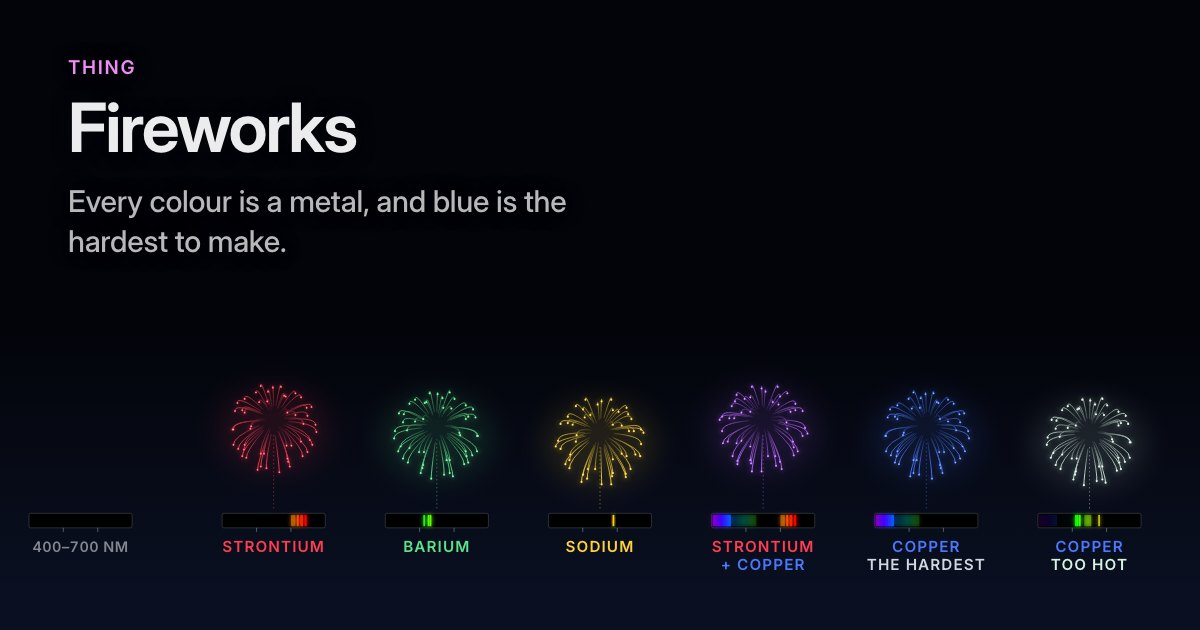
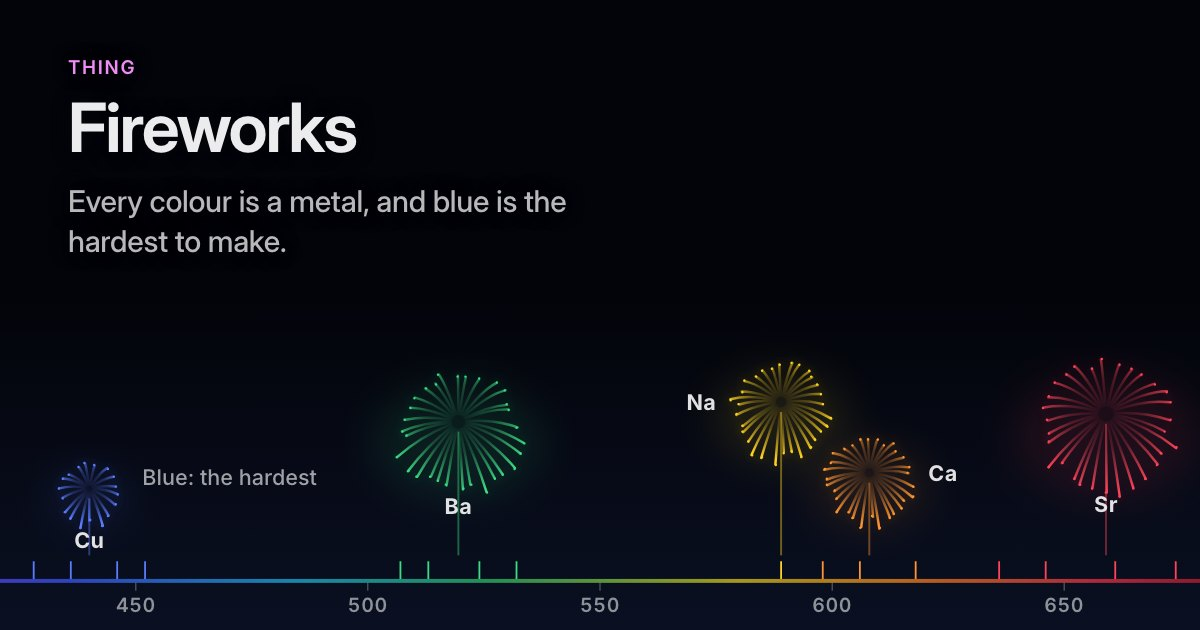
Fireworks held back: the live card stays until a redesign passes Will's look

diff --git a/lib/front.js b/lib/front.js
@@ -379,98 +379,56 @@ function squid() {
   return svg(W, H, 'A giant squid’s eye, 27 cm across, in its chromatophore-flecked skin, too big to fit on the card, beside a human eye, 2.4 cm across, at the same scale', b, 'sq', 'xMidYMid slice');
 }
 
-/* Fireworks: every colour is a metal. Six shells, alike in everything but the salt in their stars, burst side by
-   side: strontium, barium, sodium, strontium with copper, copper, and copper again, burned too hot. Under each
-   is its light as a spectroscope spreads it, 400 to 700 nm, each band where Wikipedia's table of emitters puts it
-   (strontium's chloride and hydroxide, barium chloride, sodium's D lines, copper chloride), each in
-   its own wavelength's colour, so purple shows as red and blue at once: no one wavelength is purple. Copper's blue
-   comes from copper chloride, which comes apart in a star that burns too hot, so the last shell has lost its blue (its
-   bands a ghost) and copper's own green lines show (510.6, 515.3, 521.8 and 578.2 nm, NIST), with its hydroxide's
-   green: that is why blue is the hardest. A shell is computed: its stars flung evenly over a sphere (a Fibonacci
-   lattice) and seen from the side, each slowed by the air and pulled down as it flies, its trail brightest at its head;
-   two such shells are drawn once and stamped, turned about. On its turn each climbs and breaks in turn, its light
-   reaching the spectroscope after it, and the last goes off blue and burns pale. Pointing names each. */
-/** a line's colour by its wavelength (after Bruton's approximation, its orange narrowed toward the red, where the eye
-    puts it) @param {number} nm */
-const nmHex = nm => {
-  const c = nm < 440 ? [(440 - nm) / 60, 0, 1] : nm < 490 ? [0, (nm - 440) / 50, 1] : nm < 510 ? [0, 1, (510 - nm) / 20] : nm < 580 ? [(nm - 510) / 70, 1, 0] : nm < 645 ? [1, ((645 - nm) / 65) ** 1.6, 0] : [1, 0, 0];
-  const k = nm < 420 ? .3 + .7 * (nm - 380) / 40 : 1;
-  return `#${c.map(x => Math.round(255 * (x * k) ** .8).toString(16).padStart(2, '0')).join('')}`;
-};
-/** a chrysanthemum of radius R about (0, 0): n stars over a Fibonacci sphere, those flung at you or away hidden in its
-    flash; each star's reach grows as 1 − e^(−3t) (the air slows it) and it sags R/5 by the end (gravity); its trail is a
-    curve through three moments of its flight @param {number} R @param {number} n @param {number} seed */
-function chrys(R, n, seed) {
-  const r = rng(seed), ga = Math.PI * (3 - Math.sqrt(5)), reach = (/** @type {number} */ t) => (1 - Math.exp(-3 * t)) / (1 - Math.exp(-3));
-  let d = ''; /** @type {number[][]} */ const heads = []; const o = (/** @type {number} */ x) => Math.round(x);
-  for (let i = 0; i < n; i++) {
-    const z = 1 - 2 * (i + .5) / n; if (Math.abs(z) > .9) continue;
-    const s = Math.sqrt(1 - z * z) * R * (1 + (r() - .5) * .1), a = i * ga + (r() - .5) * .3;
-    const at = (/** @type {number} */ t) => [Math.cos(a) * s * reach(t), Math.sin(a) * s * reach(t) + R * .2 * t * t];
-    const [x0, y0] = at(.14), [x1, y1] = at(.55), [x2, y2] = at(1);
-    d += `M${o(x0)} ${o(y0)}Q${o(2 * x1 - (x0 + x2) / 2)} ${o(2 * y1 - (y0 + y2) / 2)} ${o(x2)} ${o(y2)}`; heads.push([x2, y2]);
-  }
-  return { d, heads };
-}
-/* each salt's bands, [from, to, strength] in nm */
-const SR = [[600, 613, .55], [617, 623, 1], [627, 635, 1], [640, 646, 1]], CU = [[403, 456, 1], [460, 530, .16]];
-const FW = /** @type {[string, string[], string, number[][], string][]} */ ([
-  /* id, its name (a second line, or a line in another metal's colour, after a |), its colour, its bands, its reading */
-  ['sr', ['STRONTIUM'], '#FF3D52', SR, 'Strontium: red, from its salts’ bands at 600–646 nm'],
-  ['ba', ['BARIUM'], '#5CE38A', [[511, 515, 1], [524, 528, 1], [530, 533, 1]], 'Barium: green, from barium chloride’s bands at 511–533 nm'],
-  ['na', ['SODIUM'], '#FFD23A', [[589, 589.6, 1]], 'Sodium: yellow, from one bright pair of lines at 589 nm'],
-  ['pu', ['STRONTIUM|#FF3D52', '+ COPPER|#4C78FF'], '#B864FF', [...SR, ...CU], 'Strontium and copper: red and blue at once. No one wavelength is purple'],
-  ['cu', ['COPPER', 'THE HARDEST|#D3D7DF'], '#4C78FF', CU, 'Copper: blue, from copper chloride at 403–456 nm, if the star burns cool'],
-  ['hot', ['COPPER|#4C78FF', 'TOO HOT'], '#D6F2E1', [[510.6, 510.6, 1], [515.3, 515.3, 1], [521.8, 521.8, 1], [535, 555, .45], [578.2, 578.2, .7]], 'Copper burned too hot: its chloride comes apart, the blue goes, its green shows'],
+/* Fireworks: a night sky over a spectrum. Each metal's burst goes up from where its light falls on a ruler of
+   wavelengths, 400 to 700 nm, and its lines mark the ruler like a fingerprint: copper blue, barium green, sodium
+   yellow, calcium orange, strontium red. Copper's is the smallest: blue is the hardest. On first sight they go
+   off in turn; pointing at one names it. */
+const METALS = /** @type {[string, string, string, string, number[]][]} */ ([
+  ['Cu', 'Copper', 'blue', '#5B7CFF', [428, 436, 446, 452]], ['Ba', 'Barium', 'green', '#3DDC84', [507, 513, 524, 532]],
+  ['Na', 'Sodium', 'yellow', '#FFD21F', [589]], ['Ca', 'Calcium', 'orange', '#FF9433', [598, 606, 618]], ['Sr', 'Strontium', 'red', '#FF4459', [636, 646, 661, 674, 682]],
 ]);
 /** @param {number} W @param {number} H @param {'w' | 'n'} v */
-function fireworksPlate(W, H, v) {
-  const wide = v === 'w', R = wide ? 27 : 22, P = wide ? (W - 36) / (FW.length + 1) : 80, sw = wide ? 64 : 60, sh = wide ? 9 : 8;
-  /* a row of cells, the first the title's and the spectroscope's scale, then one for each shell. On a phone, a grid of
-     four by two: the title keeps the top left, the scale sits under it in the bottom left, in line with the lower
-     row's spectra, and the shells fill three columns, three to a row */
-  const cell = (/** @type {number} */ j) => wide ? [18 + P * (j + .5), 0] : j === 0 ? [20 + P * .5, 120] : [20 + P * (1 + (j - 1) % 3 + .5), j <= 3 ? 0 : 120];
-  const Y = wide ? { b: 60, s: 114, n: 138 } : { b: 46, s: 82, n: 103 };
-  let defs = `<linearGradient id="fw-sky-${v}" gradientUnits="userSpaceOnUse" x1="0" y1="0" x2="0" y2="${H}"><stop offset="0" stop-color="#03040A"/><stop offset="1" stop-color="#0A1022"/></linearGradient>`;
-  /* a shell is drawn at twice its size and stamped at half, so whole numbers place its stars to half a pixel; its trails
-     fade toward the middle, and its heads glow */
-  const R2 = R * 2;
-  defs += `<radialGradient id="fw-rg-${v}"><stop offset=".1"/><stop offset=".8" stop-color="#fff"/></radialGradient><mask id="fw-mk-${v}" maskUnits="userSpaceOnUse" x="${-1.5 * R2}" y="${-1.5 * R2}" width="${3 * R2}" height="${3 * R2}"><circle r="${1.3 * R2}" fill="url(#fw-rg-${v})"/></mask>`;
-  const bloom = (/** @type {string} */ id, /** @type {number} */ sd) => `<filter id="${id}" x="-50%" y="-50%" width="200%" height="200%"><feGaussianBlur stdDeviation="${sd}"/><feMerge><feMergeNode/><feMergeNode in="SourceGraphic"/></feMerge></filter>`;
-  defs += bloom(`fw-gl-${v}`, 3) + bloom(`fw-sl-${v}`, 1.2) + `<filter id="fw-hz-${v}" x="-50%" y="-50%" width="200%" height="200%"><feGaussianBlur stdDeviation="${wide ? 9 : 8}"/></filter>`;
-  for (const [k, seed] of /** @type {[string, number][]} */ ([['A', 7], ['B', 19]])) {
-    const { d, heads } = chrys(R2, 56, seed);
-    defs += `<path id="fw-h${k}-${v}" d="${dotPath(heads)}"/><g id="fw-${k}-${v}"><path class="fw-tr" mask="url(#fw-mk-${v})" d="${d}"/><use class="fw-hd" href="#fw-h${k}-${v}" filter="url(#fw-gl-${v})"/><use class="fw-co" href="#fw-h${k}-${v}"/></g>`;
+function fireworksSky(W, H, v) {
+  const wide = v === 'w', x0 = 18, x1 = W - 18, ax = H - (wide ? 26 : 30), X = (/** @type {number} */ nm) => x0 + (nm - 400) / 300 * (x1 - x0), r = rng(wide ? 21 : 34);
+  /* where each shell bursts and how big, copper's the smallest; each clear of the card's title */
+  const sky = /** @type {Record<string, [number, number, number]>} */ (wide
+    ? { Cu: [96, 17, 0], Ba: [62, 34, 1], Na: [52, 27, 2], Ca: [88, 24, 3], Sr: [58, 37, 4] }
+    : { Cu: [118, 17, 0], Ba: [96, 30, 1], Na: [66, 24, 2], Ca: [150, 22, 3], Sr: [104, 32, 4] });
+  let defs = `<linearGradient id="fw-sky-${v}" x1="0" y1="0" x2="0" y2="1"><stop offset="0" stop-color="#03040A"/><stop offset="1" stop-color="#0A1022"/></linearGradient><filter id="fw-glow-${v}" x="-50%" y="-50%" width="200%" height="200%"><feGaussianBlur stdDeviation="2.2"/></filter><filter id="fw-haze-${v}" x="-50%" y="-50%" width="200%" height="200%"><feGaussianBlur stdDeviation="${wide ? 10 : 14}"/></filter>`;
+  defs += `<linearGradient id="fw-sp-${v}" x1="0" y1="0" x2="1" y2="0">${[['#7A3CFF', 0], ['#3D5BFF', .12], ['#21B7E8', .28], ['#2FC76A', .42], ['#E8D21C', .6], ['#FF8A1F', .72], ['#F2334A', .86], ['#9C1020', 1]].map(([c, o]) => `<stop offset="${o}" stop-color="${c}"/>`).join('')}</linearGradient>`;
+  let b = `<rect width="${W}" height="${H}" fill="url(#fw-sky-${v})"/>`;
+  /* the ruler of wavelengths the shells stand on */
+  b += `<rect x="${x0}" y="${ax}" width="${x1 - x0}" height="2" fill="url(#fw-sp-${v})" opacity=".7"/>`;
+  for (let nm = 400; nm <= 700; nm += 50) b += L(X(nm), ax + 2, X(nm), ax + 6, 'fw-ax') + (!wide && nm % 100 ? '' : T(X(nm), ax + 17, nm === 700 ? '700 NM' : String(nm), 'tn fw-t', nm === 400 ? 'start' : nm === 700 ? 'end' : 'middle'));
+  let haze = '';
+  for (const [sym, name, hue, col, lines] of METALS) {
+    const [cy, R, order] = sky[sym], mid = (Math.min(...lines) + Math.max(...lines)) / 2, cx = X(mid), w = 1 + order * 3;
+    defs += `<radialGradient id="fw-g-${sym}-${v}" gradientUnits="userSpaceOnUse" cx="${f(cx)}" cy="${f(cy)}" r="${f(R * 1.1)}"><stop offset="0" stop-color="${col}" stop-opacity="0"/><stop offset=".45" stop-color="${col}" stop-opacity=".25"/><stop offset="1" stop-color="${col}"/></radialGradient>`;
+    haze += `<ellipse cx="${f(cx)}" cy="${f(cy + R * .3)}" rx="${f(R * 1.3)}" ry="${f(R * .9)}" fill="${col}"/>`;
+    let g = '';
+    /* its lines on the ruler, like a fingerprint, and the trail it rose by */
+    g += `<path class="fw-line fade w${w + 3}" stroke="${col}" d="${lines.map(nm => `M${f(X(nm))} ${ax}v-9`).join('')}"/>`;
+    g += `<path class="fw-trail dr w${w}" pathLength="1" stroke="${col}" d="M${f(cx)} ${ax - 12}V${f(cy + 5)}"/>`;
+    /* the shell: stars flung out, their trails bending down as they fall, brightest at the ends */
+    const n = sym === 'Cu' ? 18 : 30; let streaks = ''; /** @type {[number, number][]} */ const stars = [];
+    for (let i = 0; i < n; i++) {
+      const t = (i + r() * .6) / n * 2 * Math.PI, out = R * (.78 + r() * .22), sx = cx + Math.cos(t) * R * .12, sy = cy + Math.sin(t) * R * .12;
+      const ex = cx + Math.cos(t) * out, ey = cy + Math.sin(t) * out + out * out / R * .22, mx = cx + Math.cos(t) * out * .62, my = cy + Math.sin(t) * out * .62 + out * .02;
+      streaks += `M${f(sx)} ${f(sy)}q${f(mx - sx)} ${f(my - sy)} ${f(ex - sx)} ${f(ey - sy)}`; stars.push([ex, ey]);
+    }
+    g += `<path class="fw-burst dr w${w + 2}" pathLength="1" stroke="url(#fw-g-${sym}-${v})" d="${streaks}"/>`;
+    g += `<g class="fade w${w + 4}"><use class="fw-blur" href="#fw-h-${sym}-${v}" filter="url(#fw-glow-${v})"/><path id="fw-h-${sym}-${v}" class="fw-head" stroke="${col}" d="${dotPath(stars)}"/></g>`;
+    g += `<circle class="hit" data-read="${name} · ${hue} · ${lines.length > 1 ? `lines at ${lines[0]}–${lines[lines.length - 1]} nm` : `its line at ${lines[0]} nm`}" cx="${f(cx)}" cy="${f(cy)}" r="${f(R + 8)}"/>`;
+    const lx = sym === 'Na' ? cx - R - 6 : sym === 'Ca' ? cx + R + 6 : cx, ly = sym === 'Na' || sym === 'Ca' ? cy + 4 : sym === 'Sr' && !wide ? cy - R - 7 : cy + R + 13;
+    g += T(lx, ly, sym, `fw-sym fade w${w + 4}`, sym === 'Na' ? 'end' : sym === 'Ca' ? 'start' : 'middle');
+    b += `<g class="fw-m">${g}</g>`;
   }
-  /* a wide band is filled with the colours it spans */
-  const grads = new Set();
-  const band = (/** @type {number} */ x0, /** @type {number} */ x1, /** @type {number[]} */ [a, b, o], /** @type {number} */ y) => {
-    let fill = nmHex((a + b) / 2);
-    if (b - a >= 20) { const id = `fw-${a}-${v}`; if (!grads.has(id)) { grads.add(id); defs += `<linearGradient id="${id}">${[0, .5, 1].map(t => `<stop offset="${t}" stop-color="${nmHex(a + (b - a) * t)}"/>`).join('')}</linearGradient>`; } fill = `url(#${id})`; }
-    const X = (/** @type {number} */ nm) => x0 + (nm - 400) / 300 * (x1 - x0), w = Math.max(1.1, X(b) - X(a));
-    return `<rect x="${f(X((a + b) / 2) - w / 2)}" y="${y + 1}" width="${f(w)}" height="${sh - 2}" fill="${fill}"${o < 1 ? ` opacity="${o}"` : ''}/>`;
-  };
-  /** a spectroscope's slot, 400 to 700 nm, ticked at 500 and 600 */
-  const slot = (/** @type {number} */ x0, /** @type {number} */ y) => `<rect class="fw-slot" x="${f(x0)}" y="${y}" width="${sw}" height="${sh}" rx="1"/><path class="fw-tk" d="M${f(x0 + sw / 3)} ${y + sh}v2.5M${f(x0 + sw * 2 / 3)} ${y + sh}v2.5"/>`;
-  let b = `<rect x="${-W}" y="${-H}" width="${3 * W}" height="${3 * H}" fill="url(#fw-sky-${v})"/>`, haze = '', cols = '';
-  /* the scale, under the title */
-  const [, k0] = cell(0);
-  b += `<g class="fw-key">${slot(18, k0 + Y.s)}${T(18 + sw / 2, k0 + Y.n, '400–700 NM', 'tn', 'middle')}</g>`;
-  FW.forEach(([id, name, col, bands, read], i) => {
-    const [cx, y0] = cell(i + 1), cy = y0 + Y.b + (i % 3 - 1) * 4, s = y0 + Y.s, x0 = cx - sw / 2, hot = id === 'hot';
-    haze += `<ellipse class="fw-i${i}${hot ? ' fw-hot' : ''}" color="${col}" fill="currentColor" cx="${f(cx)}" cy="${f(cy + R * .25)}" rx="${f(R * 1.3)}" ry="${f(R)}"/>`;
-    /* the trail it climbed by, then the shell, stamped from one of the two and turned about */
-    let g = `<path class="fw-up" d="M${f(cx)} ${s - 3}V${f(cy + R * .3)}"/><g transform="translate(${f(cx)} ${cy}) scale(${i % 2 ? -.5 : .5} .5)"><use class="fw-s" href="#fw-${i % 4 < 2 ? 'A' : 'B'}-${v}"/></g>`;
-    /* its light, spread: the too-hot copper keeps only a ghost of its blue */
-    g += slot(x0, s) + (hot ? `<g class="fw-gone">${CU.map(c => band(x0, x0 + sw, c, s)).join('')}</g>` : '') + `<g class="fw-l" filter="url(#fw-sl-${v})">${bands.map(c => band(x0, x0 + sw, c, s)).join('')}</g>`;
-    g += name.map((n, l) => { const [t, c] = n.split('|'); return `<text class="fw-n"${c ? ` color="${c}"` : ''} x="${f(cx)}" y="${y0 + Y.n + l * 11}" text-anchor="middle">${esc(t)}</text>`; }).join('');
-    g += `<rect class="hit" data-read="${esc(read)}" x="${f(cx - P / 2)}" y="${y0 + (wide ? 22 : 18)}" width="${f(P)}" height="${wide ? 134 : 100}"/>`;
-    cols += `<g class="fw-m fw-i${i}${hot ? ' fw-hot' : ''}" color="${col}">${g}</g>`;
-  });
-  b += `<g class="fw-hz" filter="url(#fw-hz-${v})">${haze}</g>${cols}`;
-  return svg(W, H, 'Six firework shells side by side, each named for the metal in its stars: strontium red, barium green, sodium yellow, strontium and copper purple, copper blue, and copper burned too hot, gone pale. Under each, its light spread from 400 to 700 nm: each metal’s own bands, purple’s at both ends, and the too-hot copper’s blue bands gone, green lines in their place', `<defs>${defs}</defs>${b}`, `vz-${v} fw`, 'xMidYMid meet');
+  /* a little smoke hangs where each shell went off, lit in its colour */
+  b = b.replace(/^<rect[^>]*>/, m => `${m}<g class="fw-haze" filter="url(#fw-haze-${v})">${haze}</g>`);
+  const [cuY, cuR] = sky.Cu; b += wide ? T(X(440) + cuR + 10, cuY - 2, 'Blue: the hardest', 'fw-note fade w7') : T(x0, cuY + cuR + 31, 'Blue: the hardest', 'fw-note fade w7');
+  return svg(W, H, 'Fireworks in a night sky over a ruler of visible light from 400 to 700 nanometres: each metal’s shell bursts above its own lines, copper in the blue (the smallest, blue being the hardest), barium in the green, sodium in the yellow, calcium in the orange and strontium in the red', `<defs>${defs}</defs>${b}`, `vz-${v} fw`, 'xMidYMid slice');
 }
-const fireworks = () => fireworksPlate(745, 168, 'w') + fireworksPlate(360, 240, 'n');
+const fireworks = () => fireworksSky(745, 168, 'w') + fireworksSky(360, 240, 'n');
 
 /* Infinity: Cantor's diagonal, on a list that never ends. Any list of numbers between 0 and 1, numbered 1, 2, 3 and on
    (here a half, √2 − 1, e − 2, a third, a seventh, π − 3 and other old friends), set as a table whose rows run on down
@@ -735,7 +693,7 @@ export const CARDS = [
   { t: 'Venus flytraps', size: 'sq', tab: 'big', fx: 'flytrap', beat: 1600, art: flytrap, src: ['https://en.wikipedia.org/wiki/Venus_flytrap', 'https://doi.org/10.1016/j.cub.2015.11.057'] },
   { t: 'Magnets', size: 'sq', fx: 'magnets', beat: 1400, art: magnets, src: ['https://en.wikipedia.org/wiki/Magnetic_field', 'https://en.wikipedia.org/wiki/Iron_filings'] },
   { t: 'Rubik’s Cube', size: 'sq', beat: 1300, hook: 'Its pieces fit together in 43,252,003,274,489,856,000 ways, each at most 20 moves from solved.', art: rubik, src: ['https://en.wikipedia.org/wiki/Rubik%27s_Cube', 'https://www.cube20.org/'] },
-  { t: 'Fireworks', size: 'wide', night: true, beat: 2400, art: fireworks, src: ['https://en.wikipedia.org/wiki/Pyrotechnic_colorant', 'https://www.aps.org/apsnews/2026/06/the-showy-science-of-fireworks', 'https://physics.nist.gov/PhysRefData/Handbook/Tables/coppertable2.htm', 'https://en.wikipedia.org/wiki/Fireworks'] },
+  { t: 'Fireworks', size: 'wide', night: true, beat: 1700, art: fireworks, src: ['https://en.wikipedia.org/wiki/Fireworks', 'https://www.aps.org/apsnews/2026/06/the-showy-science-of-fireworks'] },
   { t: 'Lightning', size: 'tall', tab: 'sq', night: true, beat: 1700, art: () => lightning(), src: ['https://en.wikipedia.org/wiki/Lightning', 'https://www.weather.gov/safety/lightning-science-thunder'] },
   { t: 'Giant squid', size: 'sq', beat: 1400, art: squid, src: ['https://en.wikipedia.org/wiki/Giant_squid'] },
   { t: 'Pompeii', size: 'sq', beat: 1900, hook: 'Pliny watched its cloud rise like a pine tree, up to 33 km high, from 29 km across the bay.', art: pompeii, src: ['https://en.wikipedia.org/wiki/Eruption_of_Mount_Vesuvius_in_79_AD', 'https://en.wikipedia.org/wiki/Pompeii', 'https://igppweb.ucsd.edu/~gabi/sio15/lectures/volcanoes/pliny.html'] },

diff --git a/src/front.css b/src/front.css
@@ -344,36 +344,20 @@ a.wc-open:focus-visible{outline:2px solid var(--acc);outline-offset:-2px}
 .wc.armed.seen .sq-eye{animation:sqgrow 1.5s cubic-bezier(.2,.7,.2,1) .1s both}
 @keyframes sqgrow{from{transform:scale(.09)}}
 
-/* Fireworks: the night in either theme; seven shells, one metal each, over their light as a spectroscope spreads it. On
-   its turn each climbs and breaks in turn (--d, its place in the row), expanding as a burst does, fast and then slowing,
-   from its own middle; its light reaches the spectroscope after it, its name after that. The last goes off in copper's
-   blue and burns pale, its blue bands fading as copper's green lines come. Pointing at one names it and dims the rest */
-.vz .fw-tr{fill:none;stroke:currentColor;stroke-width:.9;stroke-linecap:round}
-.vz .fw-hd{fill:none;stroke:currentColor;stroke-width:2.2;stroke-linecap:round}
-.vz .fw-co{fill:none;stroke:#fff;stroke-width:.9;stroke-linecap:round;stroke-opacity:.8}
-.vz .fw-up{fill:none;stroke:currentColor;stroke-opacity:.4;stroke-dasharray:1.5 2.5;transform-box:fill-box;transform-origin:50% 100%}
-.vz .fw-slot{fill:#000;stroke:#fff;stroke-opacity:.16}
-.vz .fw-tk{stroke:#fff;stroke-opacity:.32}
-.vz .fw-key text{font-size:9px;fill:rgba(255,255,255,.5)}
-.vz .fw-n{font-size:9.5px;fill:currentColor}.vz-n .fw-n{font-size:9px}
-.vz .fw-gone{opacity:.18}
-.vz .fw-hz{opacity:.11}
-.fw-i1{--d:.12s}.fw-i2{--d:.24s}.fw-i3{--d:.36s}.fw-i4{--d:.48s}.fw-i5{--d:.6s}.fw-i6{--d:.72s}
-.wc.armed:not(.seen) :is(.fw-s,.fw-l,.fw-gone,.fw-n,.fw-hz ellipse){opacity:0}
-.wc.armed:not(.seen) .fw-up{transform:scaleY(0)}
-.wc.armed.seen .fw-up{animation:vzrise .34s cubic-bezier(.3,.7,.4,1) var(--d,0s) both}
-.wc.armed.seen .fw-s{animation:fwburst .9s cubic-bezier(.1,.8,.2,1) calc(var(--d,0s) + .32s) both}
-.wc.armed.seen .fw-l{animation:fade .5s var(--ease-out) calc(var(--d,0s) + .5s) both}
-.wc.armed.seen .fw-n{animation:fade .5s var(--ease-out) calc(var(--d,0s) + .62s) both}
-.wc.armed.seen .fw-hz ellipse{animation:fade 1.2s var(--ease-out) calc(var(--d,0s) + .4s) both}
-@keyframes fwburst{from{opacity:0;transform:scale(.12)}20%{opacity:1}}
-.wc.armed.seen .fw-hot .fw-s{animation:fwburst .9s cubic-bezier(.1,.8,.2,1) calc(var(--d) + .32s) both,fwhot .6s ease-in-out calc(var(--d) + .9s) both}
-.wc.armed.seen .fw-hz .fw-hot{animation:fade 1.2s var(--ease-out) calc(var(--d) + .4s) both,fwhot .6s ease-in-out calc(var(--d) + .9s) both}
-.wc.armed.seen .fw-hot .fw-gone{animation:fwgone 1.2s ease-in-out calc(var(--d) + .5s) both}
-.wc.armed.seen .fw-hot .fw-l{animation-delay:calc(var(--d) + 1.15s)}
-.wc.armed.seen .fw-hot .fw-n{animation-delay:calc(var(--d) + 1.35s)}
-@keyframes fwhot{from{color:#4C78FF}}
-@keyframes fwgone{from{opacity:0}25%,55%{opacity:1}}
+/* Fireworks: the night in either theme; each shell bursts above its own lines on the ruler, left to right, its stars
+   brightest at their ends; pointing at one names it */
+.vz .fw-ax{stroke:#fff;stroke-opacity:.38}
+.vz .fw-t{fill:rgba(255,255,255,.55)}
+.vz .fw-sym{font-size:11px;font-weight:700;letter-spacing:.02em;fill:#fff;fill-opacity:.88}
+.vz .fw-note{font:500 11px/1 var(--f-ui);letter-spacing:0;fill:rgba(255,255,255,.62)}
+.vz .fw-trail{fill:none;stroke-width:1;stroke-opacity:.42;stroke-dasharray:2 3;--t:.3s}
+.wc.armed.seen .fw-trail{stroke-dasharray:1 1}
+.vz .fw-line{fill:none;stroke-width:1.8}
+.vz .fw-burst{fill:none;stroke-width:1.25;stroke-linecap:round;--t:.55s;--e:var(--ease-out)}
+.vz .fw-head{fill:none;stroke-width:2.4;stroke-linecap:round}
+.vz .fw-blur{stroke-width:5;opacity:.75}
+.vz .fw-haze{opacity:.09;transition:opacity 1.6s var(--ease-out) .5s}
+.wc.armed:not(.seen) .fw-haze{opacity:0}
 .vz .fw-m{transition:opacity var(--d-fast) var(--ease-out)}
 .wc.reading .fw-m{opacity:.3}
 .wc.reading .fw-m:has(.hit.on){opacity:1}

diff --git a/docs/decisions.md b/docs/decisions.md
@@ -398,8 +398,14 @@ One line each, newest last. Why, not just what.
   - The walk's "the composer" step asserts that the glow's running animations change only transform or opacity and that nothing else in the composer loops; "reduced motion" asserts the still glow at its resting strength; the narrow phone's check of send is unchanged. The page is 4.7 KB larger (1.1 KB gzipped): 382 KB of its 384.
 - 2026-11-14 · **The desk takes answers, and ideas arrive built** (Will: "it's a great way to proactively build the new version of any ideas and allow me to approve/deny/add notes to modify each. Amazing intentional taste bottleneck, that allows you to chase amazing ideas without me worrying that any lead the wrong way"). The desk is now only his current asks, each with Approve, Revise or Deny and a note, saved in the page's own store (`verdicts/<id>`) where agents read them; questions go there instead of into chat. A new desk was published on the account he now works in (https://claude.ai/artifact/5H9tMoB19rZjCUkfkHKSLP) rather than having him switch accounts to share the old one. Spending money and deleting things are still confirmed in chat once.
 - 2026-11-14 · **The last polish wave before launch** (Will: "get Dorkhub polished in production, with no hanging items aside from paid gateway credits", for his portfolio; each piece through the review desk). Built by five parallel builders from one base commit, merged on one branch, one preview:
-  - **Three cards redrawn** to teach their fact in a look. Pompeii: Pliny's own view from Misenum, an umbrella pine on the headland beside a cloud of the same shape, 33 km high, the hills at their real bearings. Fireworks: seven shells alike but for their metal, each with its light drawn at its real wavelengths (Wikipedia's colorant table, NIST for copper's green), purple as red and blue at once, and copper burnt too hot losing its blue. Venus flytraps: a believable Dionaea trap (three trigger hairs a lobe, glands, cilia) above its own electrical record, two touches within 20 s to shut and five to digest, legible before any touch; touching plays it out. Each tells its story once and then runs nothing. Their link-preview pictures were remade (`scripts/share.mjs`, placements set by eye).
+  - **Two cards redrawn** to teach their fact in a look (a third, Fireworks, held back: below). Pompeii: Pliny's own view from Misenum, an umbrella pine on the headland beside a cloud of the same shape, 33 km high, the hills at their real bearings. Venus flytraps: a believable Dionaea trap (three trigger hairs a lobe, glands, cilia) above its own electrical record, two touches within 20 s to shut and five to digest, legible before any touch; touching plays it out. Each tells its story once and then runs nothing. Their link-preview pictures were remade (`scripts/share.mjs`, placements set by eye). Pompeii fits whole at any card shape, its view running on past the frame.
   - **Moves both ways, finished**: Back from a page opened from the composer puts the reader's words back in it and lands the title there (a suggestion's title lands on the suggestion, which never was in the composer: the builder's call); the map of threads and the Your world card on the front page send a name to the title and take it home.
   - **The page budget rose from 384 to 400 KB** (`tests/page.test.js`): the cards' behaviour runs in the page script, and moving it into a file of its own would need the CSP to admit a second script. Not worth it before launch for ~10 KB raw (~3 KB gzipped).
+  - **Fireworks held back.** Redrawn as shells alike but for their metal, each over its own light at real wavelengths
+    (Wikipedia's colorant table, NIST for copper), then cut to six for room and given a phone grid. Will, seeing it:
+    the bursts look "very bland", it is "doing a little too much tell vs show with the text", and he doesn't love the
+    phone layout: "whenever I explore a beautiful page like this… I tend to find the one lesser item that drags it
+    down. Don't want us to have one." In his browser the bursts drew as dark silhouettes, which Chromium and WebKit
+    here do not reproduce. The live card stays until a redesign passes the desk.
   - **Fable was at its account limit**, so the card builders ran on Opus (about 300k tokens a card, twice the Fable estimate).
   - **Cleanup** (Will's go in chat): GitHub holds only `main` (46 merged branches, four unmerged October experiments and the 21 old tags of the first codebase deleted); stale worktrees, merged local branches and 31 MB of old captures gone; the README matches the code; the backlog holds only what is left.
